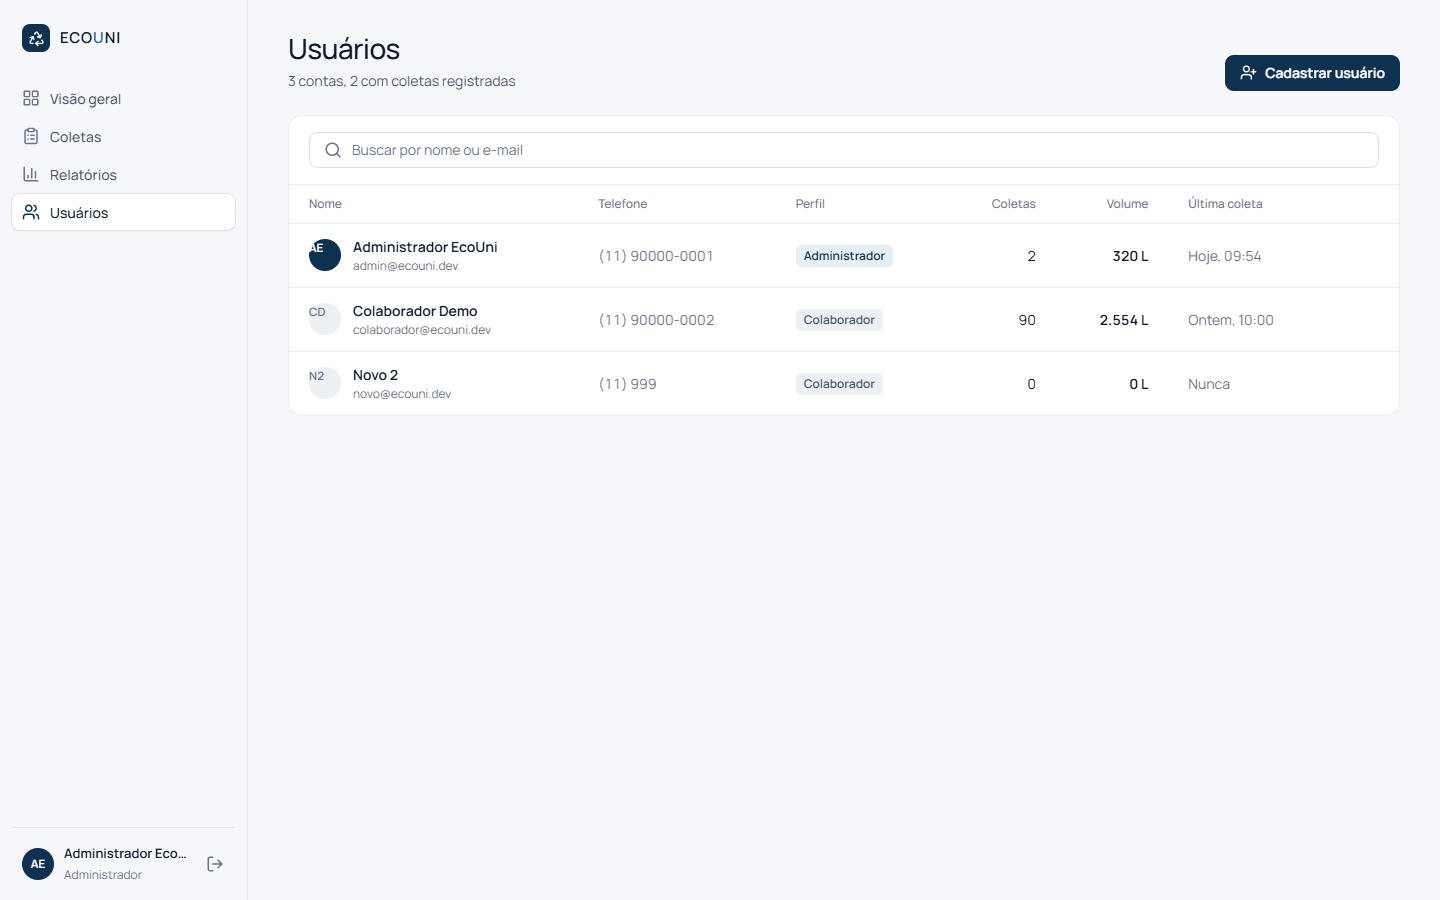
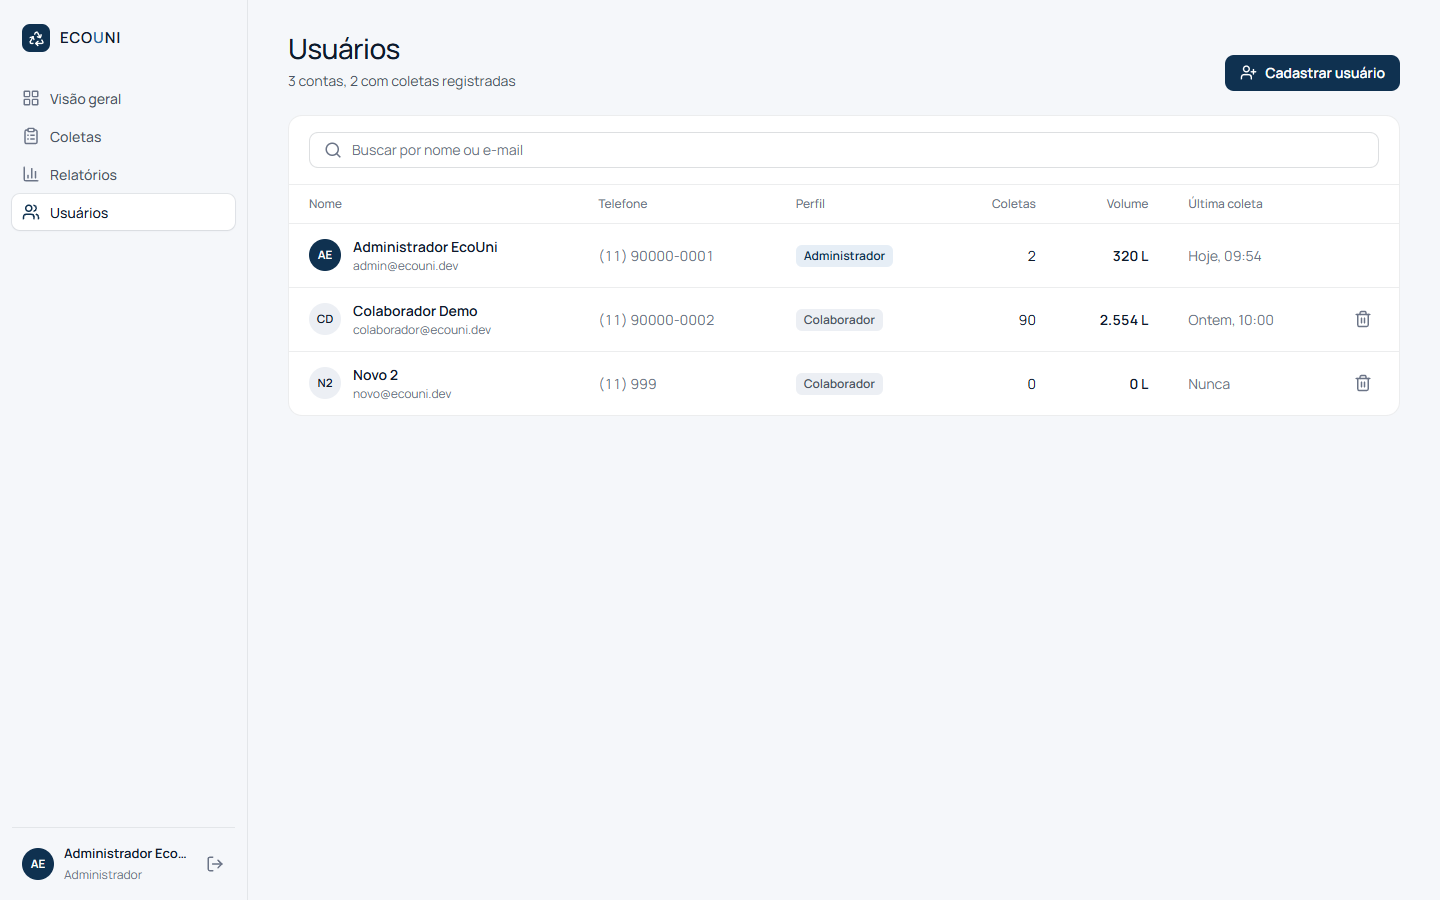
Deixa as ações das tabelas sempre visíveis e atualiza os prints
Os botões de editar e excluir nas tabelas de coletas e usuários deixam de aparecer só no hover. Os prints do README foram refeitos com o estado atual do painel, incluindo login e versão de celular.

diff --git a/src/components/layout.css b/src/components/layout.css
@@ -372,19 +372,6 @@
   display: flex;
   justify-content: flex-end;
   gap: 2px;
-  opacity: 0;
-  transition: opacity 150ms var(--ease);
-}
-
-tr:hover .row-acts,
-tr:focus-within .row-acts {
-  opacity: 1;
-}
-
-@media (hover: none) {
-  .row-acts {
-    opacity: 1;
-  }
 }
 
 .tfoot {

diff --git a/README.md b/README.md
@@ -23,6 +23,10 @@ O acesso é só do administrador. Colaboradores que tentam entrar recebem um avi
   <img src="docs/screenshots/editar-coleta.png" width="49%" alt="Edição de coleta" />
   <img src="docs/screenshots/usuarios.png" width="49%" alt="Usuários" />
 </p>
+<p>
+  <img src="docs/screenshots/login.png" width="74%" alt="Login" />
+  <img src="docs/screenshots/visao-geral-mobile.png" width="24%" alt="Visão geral no celular" />
+</p>
 
 ## Stack
 
